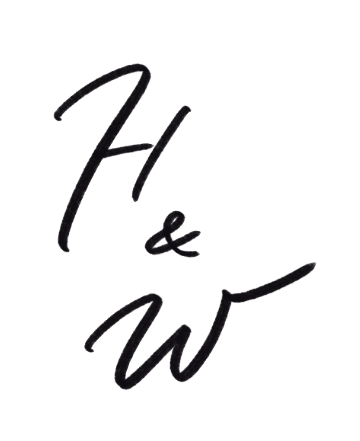
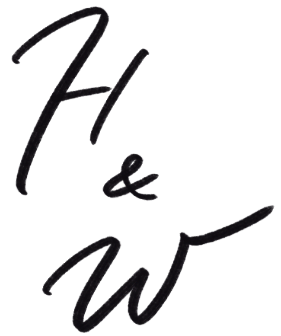
fix env(safe area)

Changed region(s): [[0.1423, 0.5952, 0.9964, 1.0], [0.0285, 0.0, 0.5409, 0.5952], [0.3701, 0.4464, 0.5694, 0.5952]]

diff --git a/styles.css b/styles.css
@@ -30,6 +30,7 @@ main {
 
 main {
     margin: auto;
+    overflow-x: clip;
 }
 
 
@@ -61,17 +62,16 @@ section.first .bg-pic-wrapper {
 }
 
 section.first .signature-wrapper {
-    position: absolute;
+    position: fixed;
     display: flex;
     flex-direction: column;
     z-index: 100;
-    bottom: 50px;
-    padding-bottom: calc(env(safe-area-inset-bottom) + 0px);
+    bottom: calc(env(safe-area-inset-bottom) + 10px);
     right: 30px;
 }
 
 section.first .signature-wrapper .signature-pic-wrapper {
-    margin: auto;
+    margin-left: auto;
     width: 30vw;
     opacity: 0.6;
 }
@@ -187,6 +187,6 @@ section.forth .map-wrapper {
 
 @media only screen and (max-width: 320px) {
     section.second .envelope {
-        transform: scale(min(calc(var(--scroll) * 0.02), 0.8));
+        transform: scale(min(calc(var(--scroll) * 0.02), 0.85)) rotate(min(calc(var(--scroll) * 5.7deg), 360deg));
     }
 }
